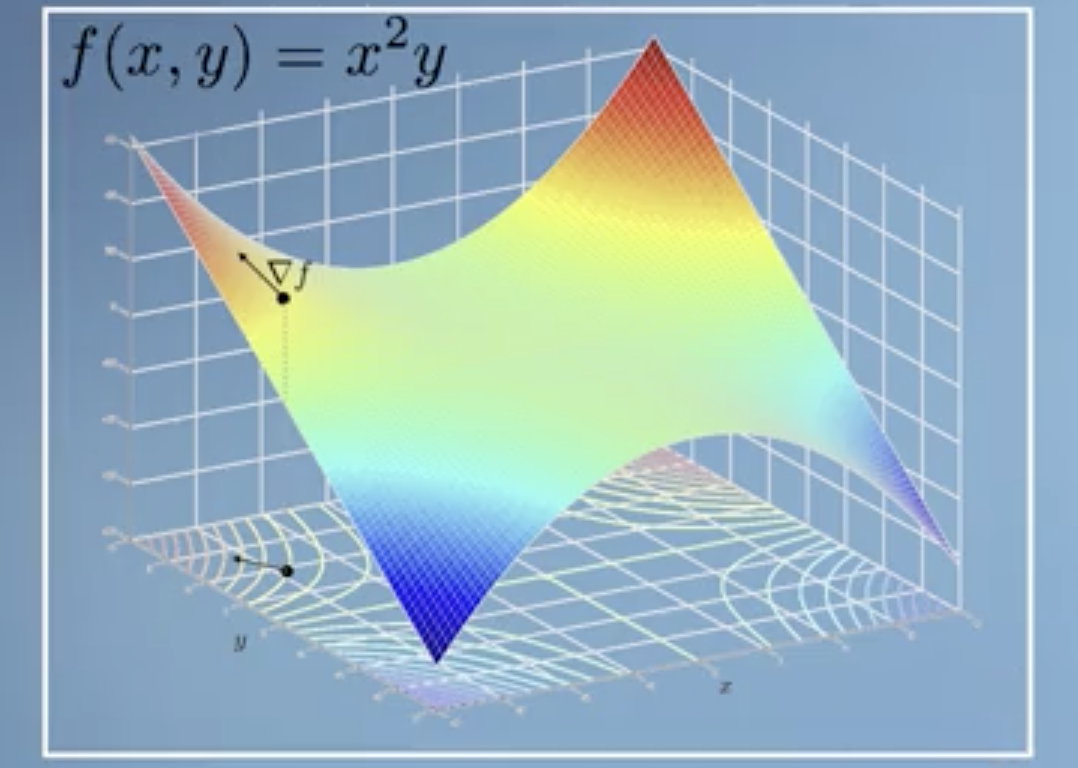
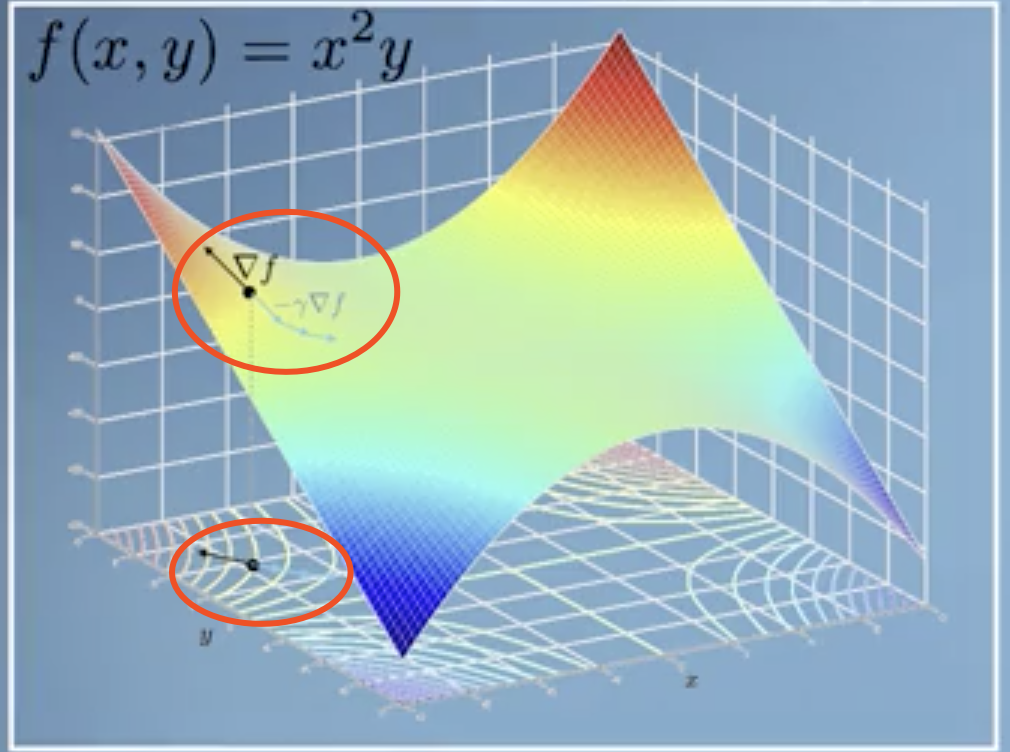
Site updated: 2018-07-16 21:28:44

Changed region(s): [[0.0, 0.0, 1.0, 1.0]]

diff --git a/archive/2018-07-14/Introduction-to-optimization/index.html b/archive/2018-07-14/Introduction-to-optimization/index.html
@@ -137,9 +137,18 @@
 <meta property="og:locale" content="en">
 <meta property="og:image" content="http://yoursite.com/archive/2018-07-14/Introduction-to-optimization/newtonmethod.gif">
 <meta property="og:image" content="http://yoursite.com/archive/2018-07-14/Introduction-to-optimization/newton_geometry.gif">
+<meta property="og:image" content="http://yoursite.com/archive/2018-07-14/Introduction-to-optimization/newton_oscillate.png">
 <meta property="og:image" content="http://yoursite.com/archive/2018-07-14/Introduction-to-optimization/gradient.png">
 <meta property="og:image" content="http://yoursite.com/archive/2018-07-14/Introduction-to-optimization/gradient2.png">
-<meta property="og:updated_time" content="2018-07-16T00:00:03.844Z">
+<meta property="og:image" content="http://yoursite.com/archive/2018-07-14/Introduction-to-optimization/gradient5.jpeg">
+<meta property="og:image" content="http://yoursite.com/archive/2018-07-14/Introduction-to-optimization/gradient3.jpg">
+<meta property="og:image" content="http://yoursite.com/archive/2018-07-14/Introduction-to-optimization/gradient4.jpg">
+<meta property="og:image" content="http://yoursite.com/archive/2018-07-14/Introduction-to-optimization/contour1.png">
+<meta property="og:image" content="http://yoursite.com/archive/2018-07-14/Introduction-to-optimization/contour11.png">
+<meta property="og:image" content="http://yoursite.com/archive/2018-07-14/Introduction-to-optimization/contour2.png">
+<meta property="og:image" content="http://yoursite.com/archive/2018-07-14/Introduction-to-optimization/contour22.png">
+<meta property="og:image" content="http://yoursite.com/archive/2018-07-14/Introduction-to-optimization/constrained_optimization.png">
+<meta property="og:updated_time" content="2018-07-16T13:21:08.004Z">
 <meta name="twitter:card" content="summary">
 <meta name="twitter:title" content="五.优化基础">
 <meta name="twitter:description" content="简介  If we want to find the minimum and maximum points of a function then we can use multivariate calculus to do this, say to optimise the parameters (the space) of a function to fit some data. First w">
@@ -560,7 +569,8 @@
 <h2 id="Abnormality-of-Newton-Method"><a href="#Abnormality-of-Newton-Method" class="headerlink" title="Abnormality of Newton Method"></a>Abnormality of Newton Method</h2><p>一. 拐点附近</p>
 <p>我们知道$\Delta x \approx -\frac{f(x)}{f^\prime(x)}$ , 在拐点附近$f^\prime(x)$ 会很小， step 会变得很大，会导致收敛变得比较慢；甚至会导致无法收敛，i.e. <strong>diverge</strong></p>
 <p>二. 震荡</p>
-<p>有些 starting point 会导致Newton Methond 既不收敛同时也不发散，而是<strong>震荡</strong>。此时，迭代过程是一种会陷入一种死循环。</p>
+<p>有些 starting point 会导致Newton Methond 既不收敛同时也不发散，而是<strong>震荡</strong>。此时，迭代过程是一种会陷入一种死循环。如下图，</p>
+<p><img src="newton_oscillate.png" alt=""></p>
 <h2 id="梯度下降算法"><a href="#梯度下降算法" class="headerlink" title="*梯度下降算法"></a>*梯度下降算法</h2><p> $\color{red}{\text{WoW! This is the most promising algorithm in this course.}}$ </p>
 <p>Gradient descent 核心思想与Newton Method 有点类似：迭代地移动自变量$\mathbf{x} \rightarrow \mathbf{x + \Delta x}$, 使函数值逐渐变小。区别在于：</p>
 <ul>
@@ -570,7 +580,7 @@
 <p><img src="gradient.png" alt=""></p>
 <h3 id="Gradient"><a href="#Gradient" class="headerlink" title="Gradient"></a>Gradient</h3><p>以上图中函数 $f(x,y)=x^2y$ 为例, 函数的梯度定义为如下形式：<br>$$<br>\text{Grad}f=\frac{\partial f}{\partial\mathbf{x}}= \nabla_{\mathbf{x}}f = \begin{bmatrix}\frac{ \partial f}{\partial x} \\ \frac{\partial f}{\partial y} \end{bmatrix} = \frac{\partial f}{\partial x}\begin{bmatrix} 1\\0 \end{bmatrix} + \frac{\partial f}{\partial y}\begin{bmatrix}0\\1 \end{bmatrix} =\frac{\partial f}{\partial x}\vec i + \frac{\partial f}{\partial y}\vec j<br>$$</p>
 <ul>
-<li><p>n 元实值函数的梯度 is a vector with n components. Each component of gradient is a partial derivative of function $f$ with respect to a corresponding variable. In this example, say $x,y$.</p>
+<li><p>n 元实值函数的梯度 is a vector with n components. Each component of gradient is a partial derivative of function $f$ with respect to a corresponding variable. In this example, say $x,y$.</p>
 </li>
 <li><p><strong>Each component of a gradient vector(i.e. Grad) 表示函数沿着那个分量方向的变化速度。</strong></p>
 <blockquote>
@@ -649,8 +659,58 @@
 <li><p>Then, $f_{min}=f(\mathbf x_{n+1})$.  </p>
 </li>
 </ol>
+<h3 id="遗留的问题"><a href="#遗留的问题" class="headerlink" title="遗留的问题"></a>遗留的问题</h3><ul>
+<li>初识点如何选取？<br><img src="gradient5.jpeg" alt=""></li>
+<li>如何选取 learning rate $\alpha$.<ul>
+<li>过小，收敛太慢</li>
+<li>过大，有无法收敛的风险</li>
+</ul>
+</li>
+<li>更加细致的观察 gradient，Does it really works? 观察如下两幅图，对助于对GD更细节地理解。<br><img src="gradient3.jpg" alt=""><br><img src="gradient4.jpg" alt=""></li>
+</ul>
 <p>这里有一个练习，用来巩固对梯度下降算法的理解，<a href="https://hub.coursera-notebooks.org/user/ajbcqdfqzhzvvstjfsyaas/notebooks/Gradient%20descent%20in%20a%20sandpit.ipynb" target="_blank" rel="noopener">link</a>.</p>
-<h1 id="Lagrange-Multipliers"><a href="#Lagrange-Multipliers" class="headerlink" title="Lagrange Multipliers"></a>Lagrange Multipliers</h1>
+<h1 id="Lagrange-Multipliers"><a href="#Lagrange-Multipliers" class="headerlink" title="Lagrange Multipliers"></a>Lagrange Multipliers</h1><p>之前讲的优化问题没有对自变量做任何约束，因此自变量的取值范围是：整个定义域。但现实中，很多情况下的优化问题是对自变量有约束的条件下，因此需要有方法将约束考虑在内。朗格朗日乘数法就是解决在自变量约束条件下的优化问题。</p>
+<p>优化问题只从公式来看不具备几何的直观性，难以从感官上理解优化的过程。Gradient 和 Contour，无论多元函数的优化，亦或是其可视化来讲，都是非常重要的。下面给出两个函数的梯度和等高线，我们从几何上直观地感受一下。</p>
+<p>一. $f(x,y)=xe^{-(x^2+y^2)}$</p>
+<p><img src="contour1.png" alt=""></p>
+<p><img src="contour11.png" alt=""></p>
+<p>二.$f(x,y)=x^2y$</p>
+<p><img src="contour2.png" alt=""></p>
+<p><img src="contour22.png" alt=""></p>
+<h3 id="Constrained-Optimization-simple"><a href="#Constrained-Optimization-simple" class="headerlink" title="Constrained Optimization (simple)"></a>Constrained Optimization (simple)</h3><p>$f(x,y)=x^2y$,  s.t. $x^2+y^2=r^2$ where $r&gt;0$ and is constant.</p>
+<p> <strong>Optimization</strong>:  Find $(\hat x,\hat y)$ which make $f(\hat x,\hat y)=f_{min}$or $f_{max}$.</p>
+<p><strong>分析：</strong></p>
+<p> $x^2+y^2=r$ 在x-o-y平面内是一个以原点为圆心，半径为$r$ 的圆。我们记：$g(x,y)=x^2+y^2$, 那个半径为 $r$ 的圆就是 <strong>a specific contour of the contours of function</strong> $g(x,y)$.</p>
+<font color="blue"><strong>受限优化含义就是</strong><br>函数$f(x,y)$ 上所有的点中，有一部分投影到x-o-y 平面时会落在 $x^2+y^2=r$ 这个圆上。<strong>在这部分点中</strong>（这就是contrained 的意思），寻找$(\hat x,\hat y)$ 使得函数取得最大或最小值。<br><br>用专业的话说，即：When projection onto x-o-y plane of contours of function $f(x,y)$ tangent to the contour of $g(x,y)$ at $(\hat x,\hat y)$,  would maximize or minimize the function $f(x,y)$.  Where $f(\hat x,\hat y)=f_{max}$ or $f_{min}$.</font>
+
+<p>如下图所示，</p>
+<p><img src="constrained_optimization.png" alt=""></p>
+<p>根据上面知识，我们已知：</p>
+<ul>
+<li>两个 contour 相切</li>
+<li>gradient 与contour 垂直</li>
+</ul>
+<p><strong>那么我们就能得出结论：</strong></p>
+<p><strong>gradient of $f(x,y)$ parallel to gradient of $g(x,y)$, not equal, at least proportional!</strong> i.e.:<br>$$<br>\color{blue}{\nabla_{\mathbf x}f(\mathbf x) = \lambda \nabla_{\mathbf x}g(\mathbf x)} \\<br>\text{where } \mathbf x =\begin{bmatrix}x\\y \end{bmatrix} \text{,and }\lambda \in \mathbb R \text{ which is called lagrange multiplier.}<br>$$<br>根据上述结论，我们将</p>
+<ol>
+<li>$f(x,y)=x^2y$</li>
+<li>$g(x,y)=x^2+y^2$</li>
+<li>$g(x,y)=r^2$</li>
+</ol>
+<p>这些已知条件带入，可得：<br>$$<br>\begin{align}<br>\begin{bmatrix} 2xy \\ x^2 \end{bmatrix}&amp;=\lambda \begin{bmatrix}2x\\ 2y \end{bmatrix} \\<br>x^2 + y^2 &amp;= r^2<br>\end{align}<br>$$<br>上述公式有三个未知数$x,y,\lambda$, 有三个方程。解方程即得：<br>$$<br>\begin{cases}<br>\hat x = \pm \frac{2}{\sqrt 3}r \\<br>\hat y = \pm \frac{1}{\sqrt 3}r \\<br>\lambda = \pm \frac{1}{\sqrt 3}r<br>\end{cases}\\<br>\color{purple}{\text{ we don’t care }\lambda \text{ here, } }\\<br>\color{purple}{\text{becasue we just want to find the proper points or point } (\hat x,\hat y) \text{ to optimize out function }f(x,y).}<br>$$<br>因此，我们得到四个点分别为，其中两个会让函数 $f(x,y)$ 取最大值；另外两个点处 $f(x,y)$ 取最小值。</p>
+<h3 id="反思"><a href="#反思" class="headerlink" title="反思"></a>反思</h3><p>本节课后半部分我们主要分析如何用 Lagrange Multipliers 解决 Constrained optimization 的问题。</p>
+<p><strong>那么， Lagrange Multipliers的核心思想是什么呢？</strong></p>
+<p>我个人有两种理解方式，</p>
+<ol>
+<li><p>我么找到函数$f(x,y)$ 的梯度: $\nabla_{\mathbf x}f(\mathbf x)$, 也找到constrained function $g(x,y)$ 的梯度 $\nabla_{\mathbf x}g(\mathbf x)$, 根据 两个函数的contour 相切点，是$f(x,y)$最大or最小值点, 因此让：<br>$$<br>\nabla_{\mathbf x}f(\mathbf x) = \lambda \nabla_{\mathbf x}g(x,y)<br>$$<br>从而求得: $\mathbf {\hat x}$.</p>
+</li>
+<li><p>Lagrange 通过 $\lambda$ 将constrained equation 与 original objective function $f(x,y)$ <strong>结合</strong>起来形成一个<strong>新的 objective function</strong>: $\mathcal L (\mathbf x,\lambda)$. 把它当作 unconstrained function 去优化它。</p>
+</li>
+</ol>
+<hr>
+<p>关于Constrained optimization 有几个很好的视频资源：</p>
+<p><a href="https://www.khanacademy.org/math/multivariable-calculus/applications-of-multivariable-derivatives/lagrange-multipliers-and-constrained-optimization/v/constrained-optimization-introduction" target="_blank" rel="noopener">link1</a>, <a href="https://www.khanacademy.org/math/multivariable-calculus/applications-of-multivariable-derivatives/lagrange-multipliers-and-constrained-optimization/v/lagrange-multipliers-using-tangency-to-solve-constrained-optimization" target="_blank" rel="noopener">link2</a>.</p>
+
       
     </div>
     
@@ -916,7 +976,7 @@
             
 
             
-              <div class="post-toc-content"><ol class="nav"><li class="nav-item nav-level-1"><a class="nav-link" href="#Fitting-as-Optimization-Problem"><span class="nav-number">1.</span> <span class="nav-text">Fitting as Optimization Problem</span></a><ol class="nav-child"><li class="nav-item nav-level-2"><a class="nav-link" href="#Linear-Approximation-Newton-Method"><span class="nav-number">1.1.</span> <span class="nav-text">Linear Approximation / Newton Method</span></a></li><li class="nav-item nav-level-2"><a class="nav-link" href="#Abnormality-of-Newton-Method"><span class="nav-number">1.2.</span> <span class="nav-text">Abnormality of Newton Method</span></a></li><li class="nav-item nav-level-2"><a class="nav-link" href="#梯度下降算法"><span class="nav-number">1.3.</span> <span class="nav-text">*梯度下降算法</span></a><ol class="nav-child"><li class="nav-item nav-level-3"><a class="nav-link" href="#Gradient"><span class="nav-number">1.3.1.</span> <span class="nav-text">Gradient</span></a></li><li class="nav-item nav-level-3"><a class="nav-link" href="#Directional-derivative"><span class="nav-number">1.3.2.</span> <span class="nav-text">Directional derivative</span></a></li><li class="nav-item nav-level-3"><a class="nav-link" href="#Directions-of-Greatest-Increase-and-Decrease"><span class="nav-number">1.3.3.</span> <span class="nav-text">Directions of Greatest Increase and Decrease</span></a></li><li class="nav-item nav-level-3"><a class="nav-link" href="#偏导、梯度和方向导数"><span class="nav-number">1.3.4.</span> <span class="nav-text">偏导、梯度和方向导数</span></a></li><li class="nav-item nav-level-3"><a class="nav-link" href="#梯度下降的过程"><span class="nav-number">1.3.5.</span> <span class="nav-text">梯度下降的过程</span></a></li></ol></li></ol></li><li class="nav-item nav-level-1"><a class="nav-link" href="#Lagrange-Multipliers"><span class="nav-number">2.</span> <span class="nav-text">Lagrange Multipliers</span></a></li></ol></div>
+              <div class="post-toc-content"><ol class="nav"><li class="nav-item nav-level-1"><a class="nav-link" href="#Fitting-as-Optimization-Problem"><span class="nav-number">1.</span> <span class="nav-text">Fitting as Optimization Problem</span></a><ol class="nav-child"><li class="nav-item nav-level-2"><a class="nav-link" href="#Linear-Approximation-Newton-Method"><span class="nav-number">1.1.</span> <span class="nav-text">Linear Approximation / Newton Method</span></a></li><li class="nav-item nav-level-2"><a class="nav-link" href="#Abnormality-of-Newton-Method"><span class="nav-number">1.2.</span> <span class="nav-text">Abnormality of Newton Method</span></a></li><li class="nav-item nav-level-2"><a class="nav-link" href="#梯度下降算法"><span class="nav-number">1.3.</span> <span class="nav-text">*梯度下降算法</span></a><ol class="nav-child"><li class="nav-item nav-level-3"><a class="nav-link" href="#Gradient"><span class="nav-number">1.3.1.</span> <span class="nav-text">Gradient</span></a></li><li class="nav-item nav-level-3"><a class="nav-link" href="#Directional-derivative"><span class="nav-number">1.3.2.</span> <span class="nav-text">Directional derivative</span></a></li><li class="nav-item nav-level-3"><a class="nav-link" href="#Directions-of-Greatest-Increase-and-Decrease"><span class="nav-number">1.3.3.</span> <span class="nav-text">Directions of Greatest Increase and Decrease</span></a></li><li class="nav-item nav-level-3"><a class="nav-link" href="#偏导、梯度和方向导数"><span class="nav-number">1.3.4.</span> <span class="nav-text">偏导、梯度和方向导数</span></a></li><li class="nav-item nav-level-3"><a class="nav-link" href="#梯度下降的过程"><span class="nav-number">1.3.5.</span> <span class="nav-text">梯度下降的过程</span></a></li><li class="nav-item nav-level-3"><a class="nav-link" href="#遗留的问题"><span class="nav-number">1.3.6.</span> <span class="nav-text">遗留的问题</span></a></li></ol></li></ol></li><li class="nav-item nav-level-1"><a class="nav-link" href="#Lagrange-Multipliers"><span class="nav-number">2.</span> <span class="nav-text">Lagrange Multipliers</span></a><ol class="nav-child"><li class="nav-item nav-level-3"><a class="nav-link" href="#Constrained-Optimization-simple"><span class="nav-number">2.0.1.</span> <span class="nav-text">Constrained Optimization (simple)</span></a></li><li class="nav-item nav-level-3"><a class="nav-link" href="#反思"><span class="nav-number">2.0.2.</span> <span class="nav-text">反思</span></a></li></ol></li></ol></li></ol></div>
             
 
           </div>
